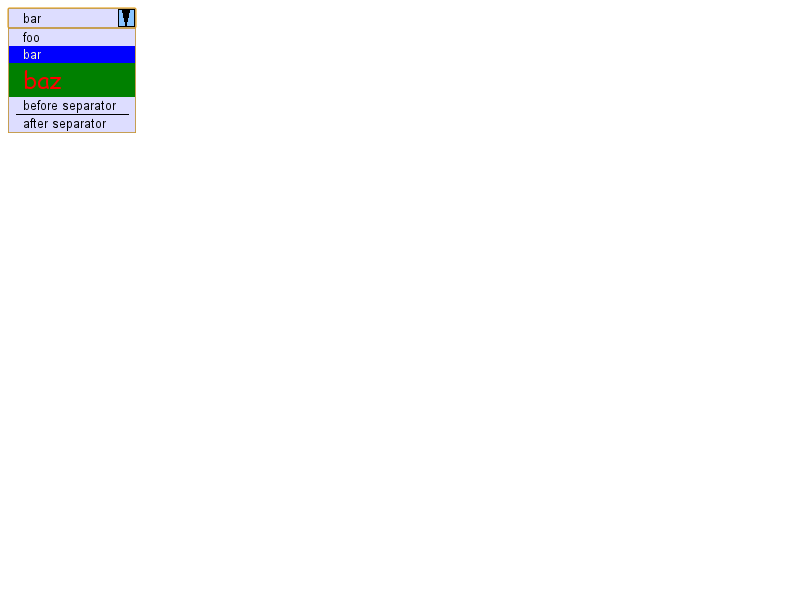
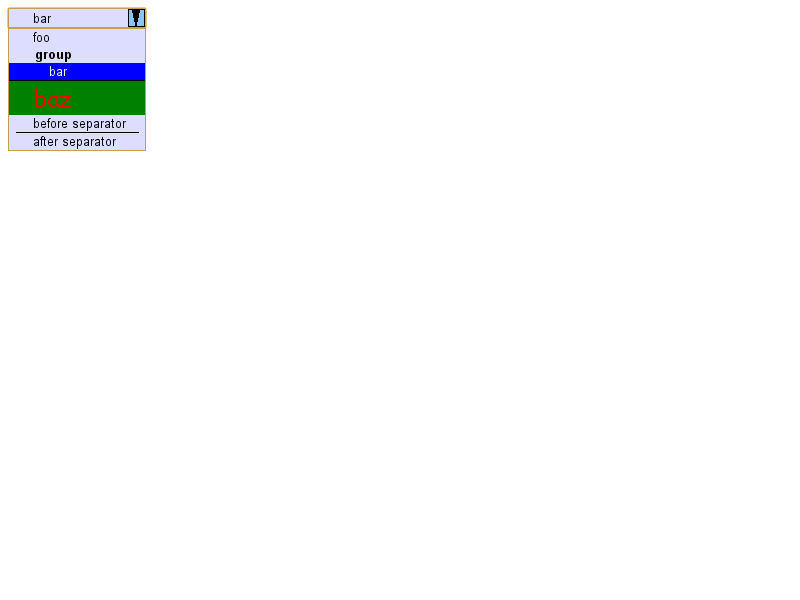
New select popup: fix padding for options in optgroups
We were applying padding to both the optgroup and the options in it.

We need to apply a negative margin so that when we select it the background color covers the whole width of the popup.

BUG=472569

Review URL: https://codereview.chromium.org/1050863002

git-svn-id: svn://svn.chromium.org/blink/trunk@193093 bbb929c8-8fbe-4397-9dbb-9b2b20218538

Changed region(s): [[0.0, 0.0, 0.1875, 0.27]]

diff --git a/Source/web/resources/listPicker.js b/Source/web/resources/listPicker.js
@@ -244,7 +244,7 @@ ListPicker.prototype._updateChildren = function(parent, config) {
     for (var i = 0; i < config.children.length; ++i) {
         var childConfig = config.children[i];
         var item = this._findReusableItem(parent, childConfig, outOfDateIndex) || this._createItemElement(childConfig);
-        this._configureItem(item, childConfig);
+        this._configureItem(item, childConfig, parent.tagName === "OPTGROUP");
         if (outOfDateIndex < parent.children.length)
             parent.insertBefore(item, parent.children[outOfDateIndex]);
         else
@@ -297,7 +297,7 @@ ListPicker.prototype._applyItemStyle = function(element, styleConfig) {
     element.style.unicodeBidi = styleConfig.unicodeBidi;
 };
 
-ListPicker.prototype._configureItem = function(element, config) {
+ListPicker.prototype._configureItem = function(element, config, inGroup) {
     if (config.type === "option") {
         element.label = config.label;
         element.value = config.value;
@@ -306,6 +306,10 @@ ListPicker.prototype._configureItem = function(element, config) {
         element.setAttribute("aria-label", config.ariaLabel);
         element.style.webkitPaddingStart = this._config.paddingStart + "px";
         element.style.webkitPaddingEnd = this._config.paddingEnd + "px";
+        if (inGroup) {
+            element.style.webkitMarginStart = (- this._config.paddingStart) + "px";
+            element.style.webkitMarginEnd = (- this._config.paddingEnd) + "px";
+        }
     } else if (config.type === "optgroup") {
         element.label = config.label;
         element.title = config.title;
@@ -318,6 +322,10 @@ ListPicker.prototype._configureItem = function(element, config) {
         element.title = config.title;
         element.disabled = config.disabled;
         element.setAttribute("aria-label", config.ariaLabel);
+        if (inGroup) {
+            element.style.webkitMarginStart = (- this._config.paddingStart) + "px";
+            element.style.webkitMarginEnd = (- this._config.paddingEnd) + "px";
+        }
     }
     this._applyItemStyle(element, config.style);
 };

diff --git a/LayoutTests/fast/forms/select/popup-menu-appearance-styled.html b/LayoutTests/fast/forms/select/popup-menu-appearance-styled.html
@@ -10,7 +10,7 @@ window.enablePixelTesting = true;
 <body>
 <style>
 select {
-    padding-left: 10px;
+    padding-left: 20px;
     background-color: #DDDDFF;
 }
 
@@ -25,7 +25,9 @@ option.styled {
 </style>
 <select id="menu">
   <option>foo</option>
-  <option selected>bar</option>
+  <optgroup label="group" id="group">
+      <option selected>bar</option>
+  </optgroup>
   <option hidden>qux</option>
   <option class="styled">baz</option>
 </select>
@@ -36,6 +38,8 @@ var menu = document.getElementById('menu');
 menu.appendChild(new Option('before separator'));
 menu.appendChild(document.createElement('hr'));
 menu.appendChild(new Option('after separator'));
+var group = document.getElementById('group');
+group.appendChild(document.createElement('hr'));
 openPicker(menu, finishJSTest, function () {
     testFailed('picker didn\'t open')
     finishJSTest();
